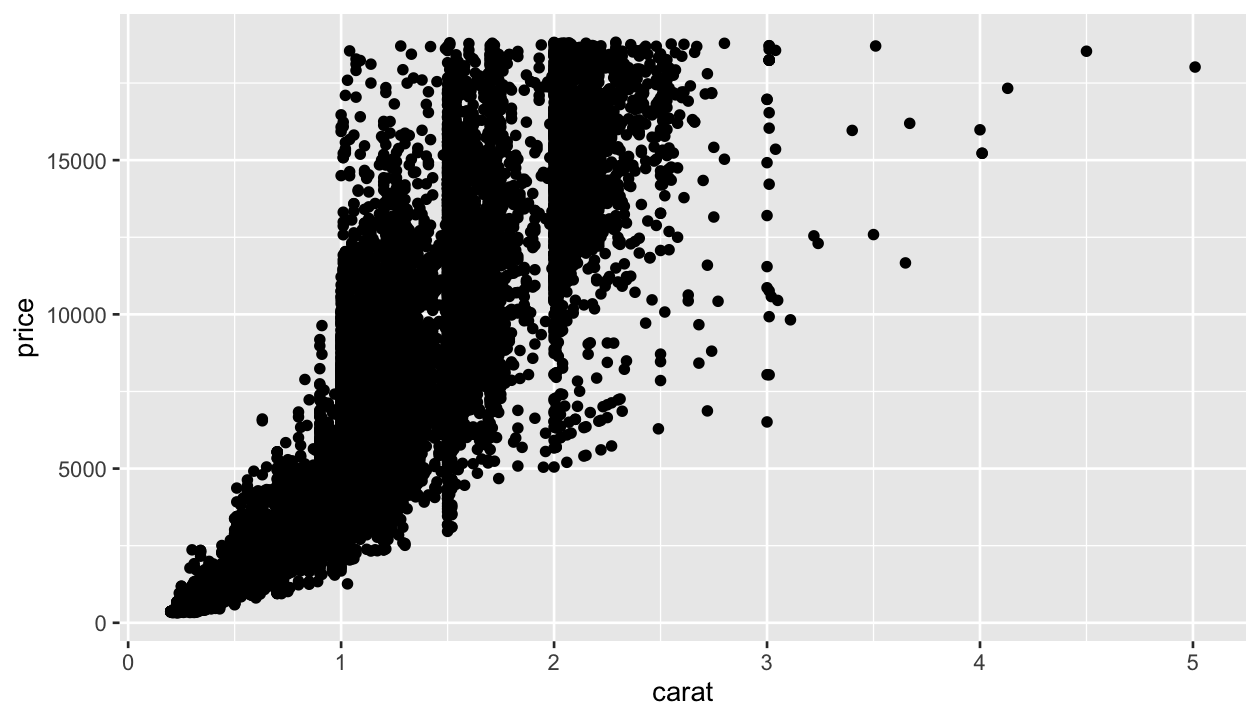
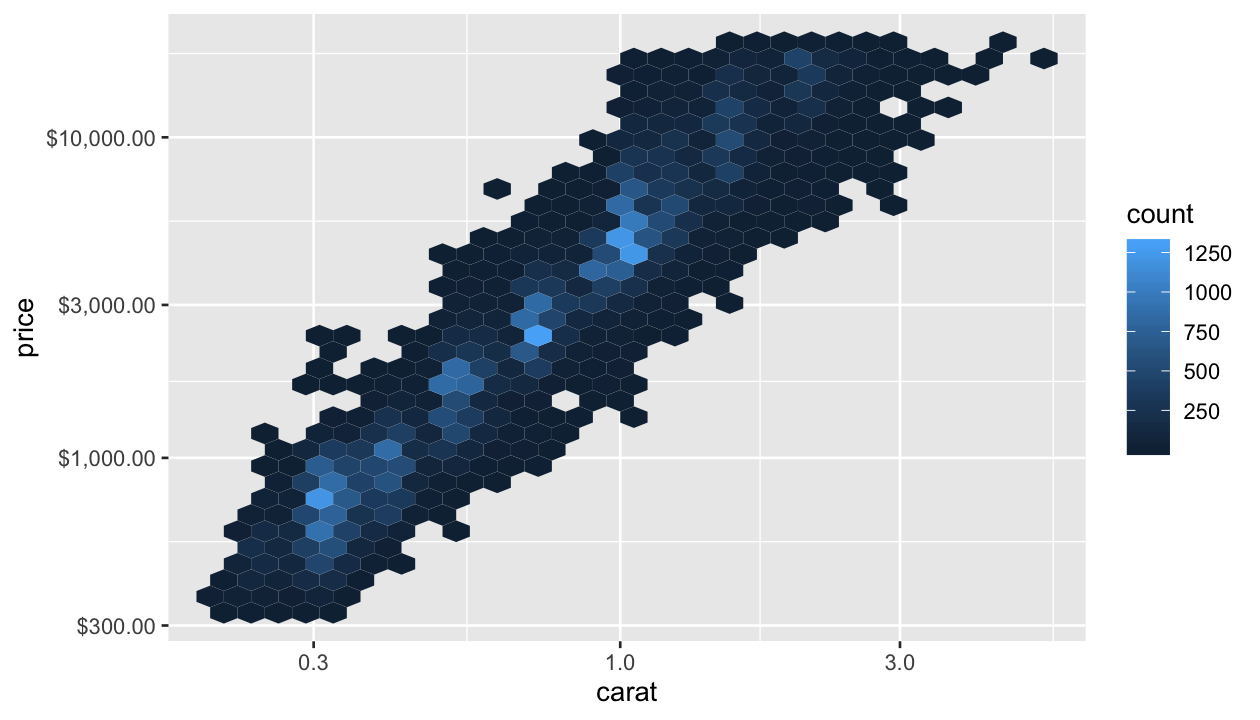
update rstudio slides

diff --git a/rstudioconf2020.html b/rstudioconf2020.html
@@ -78,51 +78,16 @@ class: center, middle
 
 # Transformations
 
-scales provides a number of common transformation functions (`*_trans()`) which specify functions to preform data transformations, format labels, and set correct breaks.
+scales provides a number of common transformation functions (`*_trans`) which specify functions to preform data transformations, format labels, and set correct breaks.
 
 &lt;br/&gt;
 
 For example: &lt;br/&gt;
-`log_trans()`, `sqrt_trans()`, `reverse_trans()` power the `scale_*_log10()`,
-`scale_*_sqrt()`, `scale_*_reverse()` functions in ggplot2. 
+`log_trans`, `sqrt_trans`, `reverse_trans` power the `scale_*_log10`,
+`scale_*_sqrt`, `scale_*_reverse` functions in ggplot2. 
 
-
----
-class: center, middle
-
-
-```r
-ggplot(diamonds) +
-  geom_point(aes(y = price, x = carat))
-```
-
-![](rstudioconf2020_files/figure-html/unnamed-chunk-1-1.png)&lt;!-- --&gt;
-
-
----
-class: center, middle
-
-
-```r
-ggplot(diamonds) +
-  geom_point(aes(y = price, x = carat)) + 
-  scale_x_continuous(trans = log_trans()) +
-  scale_y_log10()
-```
-
-![](rstudioconf2020_files/figure-html/unnamed-chunk-2-1.png)&lt;!-- --&gt;
----
-class: center, middle
-
-
-```r
-ggplot(diamonds) +
-  geom_hex(aes(y = price, x = carat)) + 
-  scale_x_log10() +
-  scale_y_log10()
-```
-
-![](rstudioconf2020_files/figure-html/unnamed-chunk-3-1.png)&lt;!-- --&gt;
+&lt;br/&gt;
+`scale_*_datetime`, `scale_*_date` are powered by the `time_trans` and `date_trans` functions. 
 
 ---
 class: left, middle
@@ -131,7 +96,6 @@ class: left, middle
 - `asn_trans()` : Arc-sin square root transformation.
 - `atanh_trans()` : Arc-tangent transformation.
 - `boxcox_trans()` `modulus_trans()` : Box-Cox &amp; modulus transformations.
-- `date_trans()` `time_trans()` `hms_trans()` : transformations for date, datetime, and hms classes
 - `exp_trans()` : Exponential transformation (inverse of log transformation).
 - `pseudolog_trans()` : Pseudo-log transformation
 - `probabilty_trans()`: Probability transformation
@@ -148,12 +112,28 @@ transformation functions for repeated use.
 # use trans_new to build a new transformation
 dollar_log &lt;- trans_new(
   name = "dollar_log",
-  trans = log_trans(base = 10)$trans, # extract a single element from another trans
-  inverse = function(x) 10^(x), # or write your own custom functions
+  # extract a single element from another trans
+  trans = log10_trans()$trans, 
+  # or write your own custom functions
+  inverse = function(x) 10^(x), 
   breaks = breaks_log(),
   format = label_dollar()
-  )
+)
 ```
+
+---
+class: center, middle
+
+
+```r
+ggplot(diamonds, aes(y = price, x = carat)) + 
+  geom_hex() +
+  scale_y_continuous(trans = dollar_log) +
+  scale_x_log10()
+```
+
+![](rstudioconf2020_files/figure-html/unnamed-chunk-1-1.png)&lt;!-- --&gt;
+
 
 ---
 class: center, middle
@@ -174,7 +154,7 @@ rescale(runif(5), to = c(0, 50))
 ```
 
 ```
-## [1] 24.97849 16.19816 45.77471  0.00000 50.00000
+## [1] 30.069032  0.000000 10.010167 50.000000  4.351211
 ```
 
 ---
@@ -196,7 +176,7 @@ squish(c(-1, 0.5, 1, 2, NA), range = c(0, 1))
 ```
 
 ```r
-scales::discard(c(-1, 0.5, 1, 2, NA), range = c(0, 1))
+discard(c(-1, 0.5, 1, 2, NA), range = c(0, 1))
 ```
 
 ```
@@ -217,17 +197,18 @@ class: center, middle
 #### Squish can be really useful for setting the `oob` argument for a color scale with reduced limits.
 
 ```r
-ggplot(iris, aes(x = Sepal.Length, y = Sepal.Width, colour = Sepal.Length)) +
+ggplot(iris, aes(x = Sepal.Length, y = Sepal.Width,
+  colour = Sepal.Length)) +
   geom_point() + 
   scale_color_continuous(limit = c(6, 8), oob = scales::squish)
 ```
 
-![](rstudioconf2020_files/figure-html/unnamed-chunk-4-1.png)&lt;!-- --&gt;
+![](rstudioconf2020_files/figure-html/unnamed-chunk-2-1.png)&lt;!-- --&gt;
 
 ---
 class: center, middle, inverse 
 
-# Sensible Breaks for continuous scales
+# Sensible breaks for continuous scales
 
 ---
 class: left, middle
@@ -285,7 +266,7 @@ class: left, middle
 - `label_ordinal`: add ordinal suffixes (-st, -nd, -rd, -th) to numbers according to languages (e.g. English, Spanish, French).
 - `label_bytes`, `label_number_si` 
 - `label_parse`, `label_math`, `label_pvalue`
--` label_wrap`
+- `label_wrap`
 
 For a full list and descriptions, see: [scales.r-lib.org/reference](scales.r-lib.org/reference)
 
@@ -295,7 +276,7 @@ class: center, middle
 Like break functions, the output of all `label_*` functions is a function. All these output functions are designed to take a numeric vector (traditionally, of breaks) and return a nicely-formatted character vector.
 &lt;br/&gt;
 
-This makes it easy to use them directly as the input to a ggplot2 scale_* labels argument to automatically take the plots calculated breaks and label them with consistent style. 
+This makes it easy to use them directly as the input to a ggplot2 scale_* labels argument to automatically take the plot's calculated breaks and label them with consistent style. 
 
 
 ```r
@@ -306,33 +287,37 @@ demo_continuous(txhousing$median, labels = label_dollar())
 ## scale_x_continuous(labels = label_dollar())
 ```
 
-![](rstudioconf2020_files/figure-html/unnamed-chunk-6-1.png)&lt;!-- --&gt;
+![](rstudioconf2020_files/figure-html/unnamed-chunk-4-1.png)&lt;!-- --&gt;
 ---
 class: middle, center
 
 ## Changing defaults
 
-Many of the `label_*` functions are built off of the generic `label_number` function, and allow users to easily customize label formats using consistent arguments. 
+Many of the `label_*` functions are built off of the generic `label_number` function, and allow users to customize label formats with consistent args. 
 
 Users can specify a different rounding behavior (`accuracy`), or change the `big_mark` or `decimal_mark` for international styling; even add a `prefix` or a `suffix` or `scale` your numbers on the fly. 
 
 
 ```r
-french_percent &lt;- label_percent(decimal.mark = ",", suffix = " %", accuracy = .1)
+french_percent &lt;- label_percent( 
+  decimal.mark = ",",
+  suffix = " %", # add some space maybe?
+  accuracy = .1)
 french_percent(runif(3))
 ```
 
 ```
-## [1] "82,1 %" "5,9 %"  "68,0 %"
+## [1] "96,1 %" "63,5 %" "32,9 %"
 ```
 
 ```r
-usd_to_euro &lt;- label_dollar(prefix = "", suffix = "\u20ac", scale = .86)
+usd_to_euro &lt;- label_dollar(
+  prefix = "", suffix = "\u20ac", scale = .91)
 usd_to_euro(100)
 ```
 
 ```
-## [1] "86€"
+## [1] "91€"
 ```
 
 ---
@@ -340,15 +325,18 @@ class: left, middle
 
 
 ```r
-# delightfully,s already implemented in args: date_breaks, date_labels
-filter(txhousing, city == "Houston") %&gt;% 
-ggplot() +
+filter(txhousing, city == "Houston") %&gt;%
+  ggplot() +
   geom_line(aes(y = sales, x = date_decimal(date))) +
-  scale_x_datetime("Month-Year", breaks = breaks_width("2 year"), 
-                   labels = label_date("%b %Y"))
+  scale_x_datetime("Month-Year",
+    breaks = breaks_width("2 year"),
+    labels = label_date("%b %Y")
+ # delightfully, this functionality is already implemented x
+ #  in scale_*_date args: date_breaks, date_labels
+  )
 ```
 
-![](rstudioconf2020_files/figure-html/unnamed-chunk-8-1.png)&lt;!-- --&gt;
+![](rstudioconf2020_files/figure-html/unnamed-chunk-6-1.png)&lt;!-- --&gt;
 
 
 ---
@@ -363,8 +351,8 @@ class: center, middle
 
 scales provides a number of color palette functions that passed the number of colors you want or a range of gradient values, will return vector of colors by hex code. 
 
+
 ```r
-# pull a list of colors from any palette
 viridis_pal()(4)
 ```
 
@@ -401,7 +389,7 @@ Try `scales::show_col()`
 show_col(viridis_pal()(4))
 ```
 
-![](rstudioconf2020_files/figure-html/unnamed-chunk-9-1.png)&lt;!-- --&gt;
+![](rstudioconf2020_files/figure-html/unnamed-chunk-7-1.png)&lt;!-- --&gt;
 ---
 class: center, middle
 
@@ -415,7 +403,7 @@ area_pal(range = c(1, 20))(your_data)
 ```
 
 ```
-## [1] 61.21486 79.69243 85.35744 41.86036 60.83475
+## [1] 79.46603 73.35552 60.22752 85.16348 49.28410
 ```
 
 ```r
@@ -443,7 +431,7 @@ scale_shape_ordinal()
 scale_color_manual()
 scale_shape_manual()
 scale_size_manual()
-# use the values as they are from your data frame with 
+# use the values as they are from your data frame with
 scale_color_identity()
 scale_shape_identity()
 scale_size_identity()
@@ -461,11 +449,11 @@ class: center, middle
 
 ```r
 palette(viridis_pal()(4))
-plot(Sepal.Length ~ Sepal.Width, 
-     col = Species, pch=20, data = iris)
+plot(Sepal.Length ~ Sepal.Width,
+  col = Species, pch = 20, data = iris)
 ```
 
-![](rstudioconf2020_files/figure-html/unnamed-chunk-12-1.png)&lt;!-- --&gt;
+![](rstudioconf2020_files/figure-html/unnamed-chunk-10-1.png)&lt;!-- --&gt;
 
 ---
 class: center, middle
